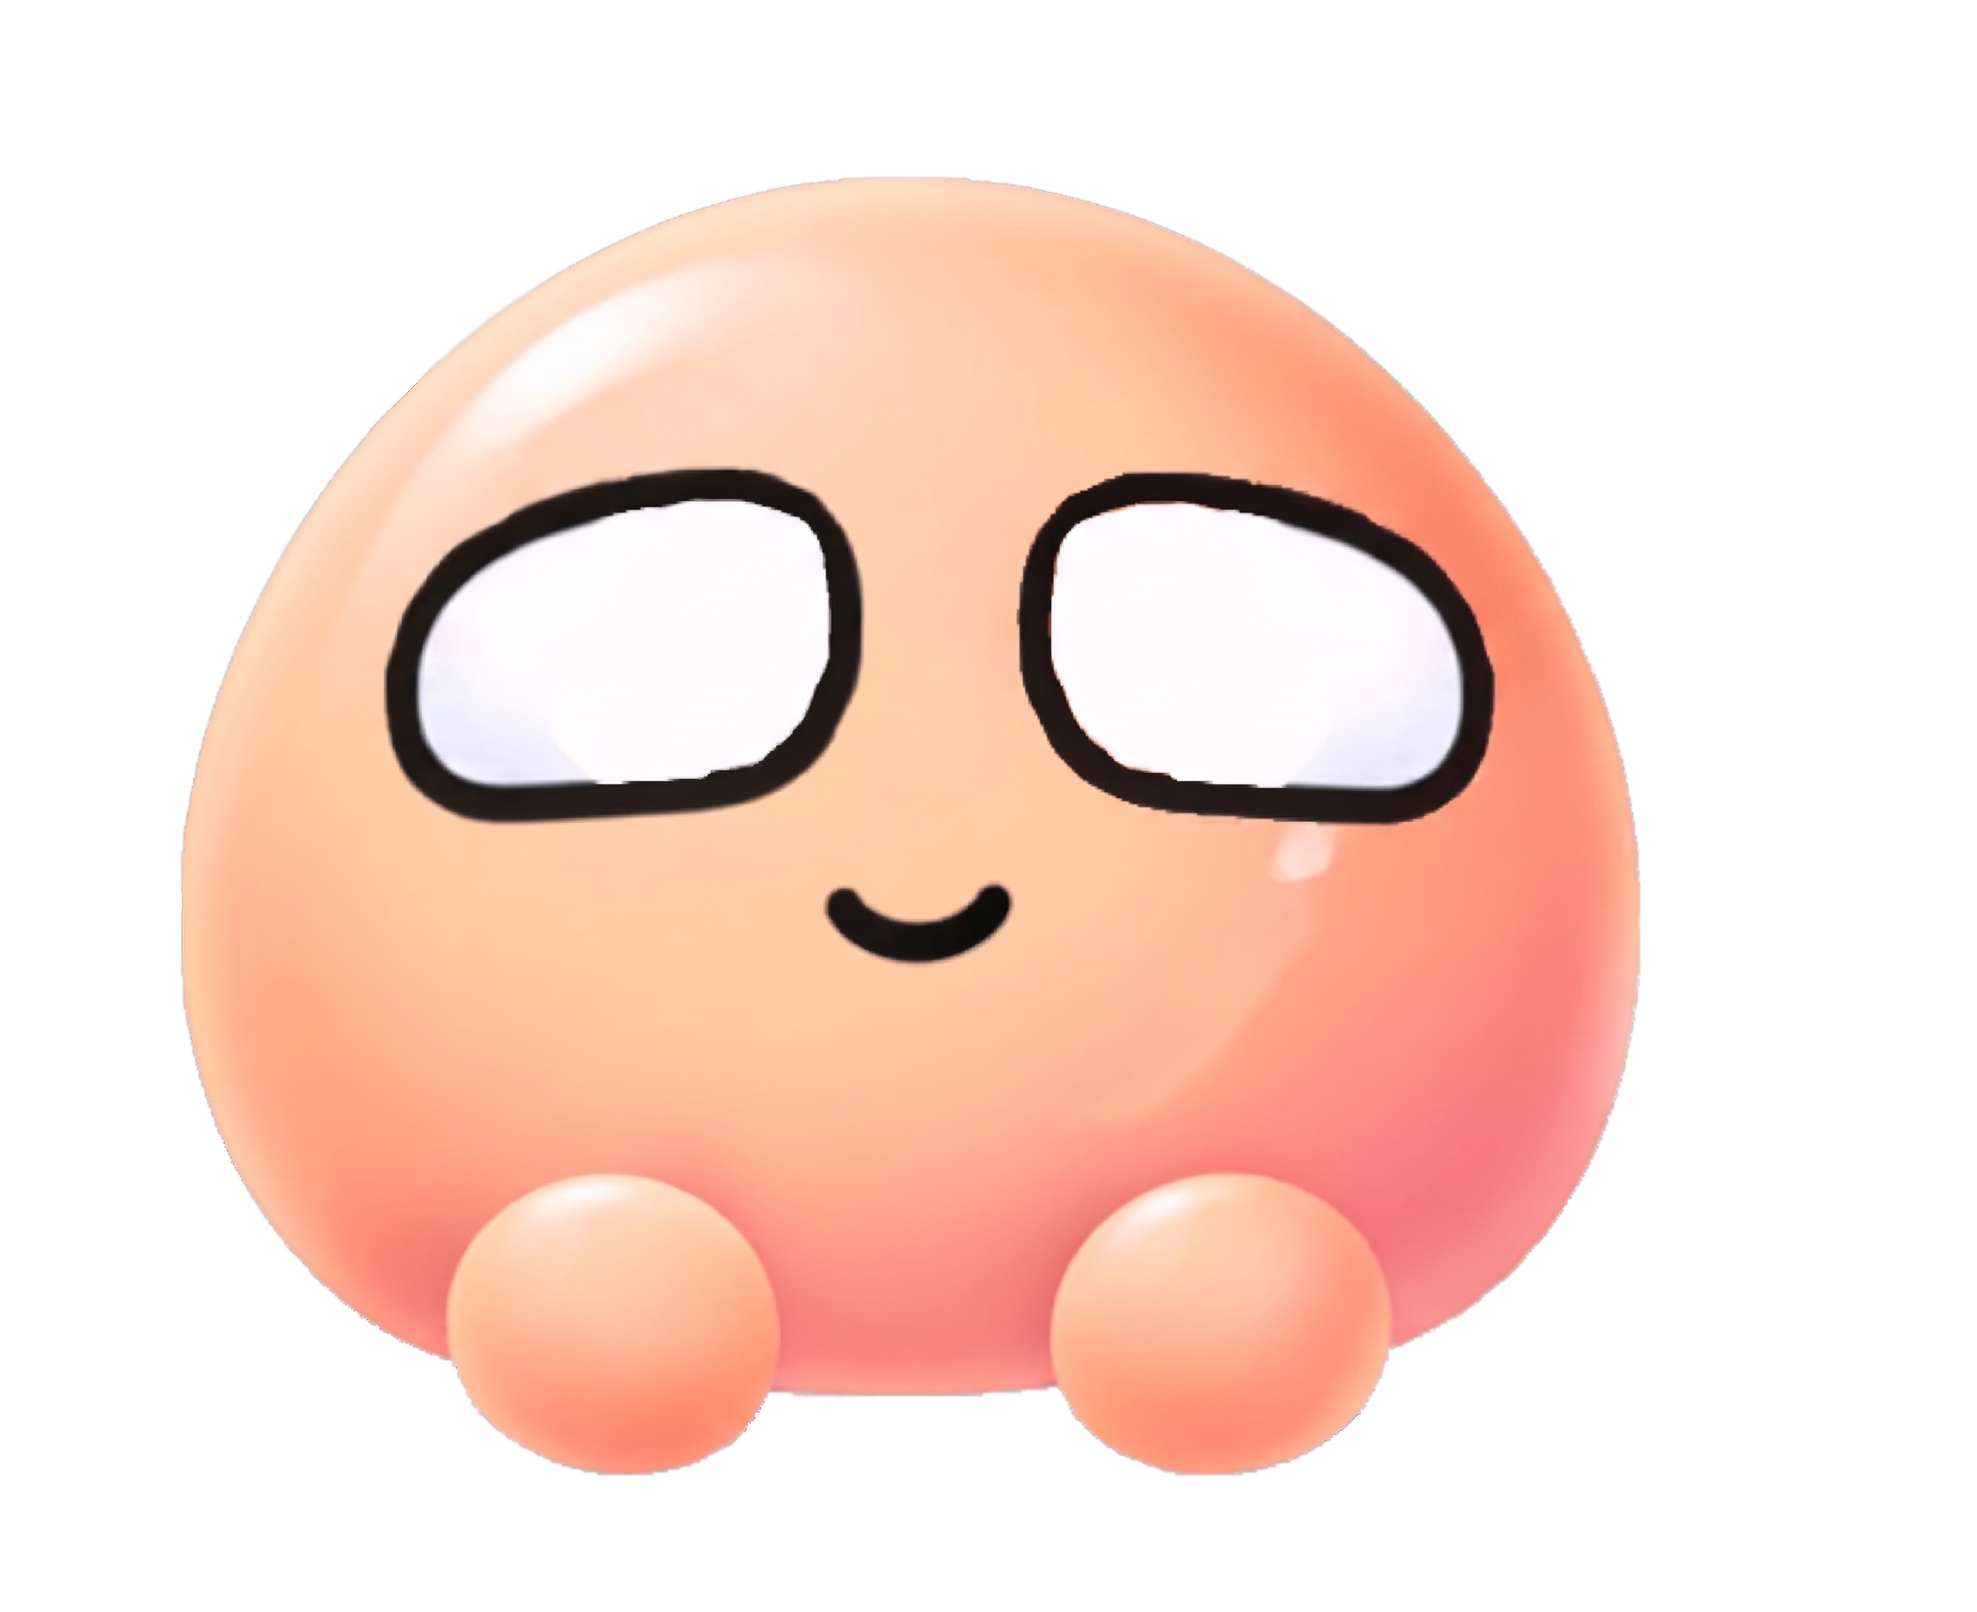
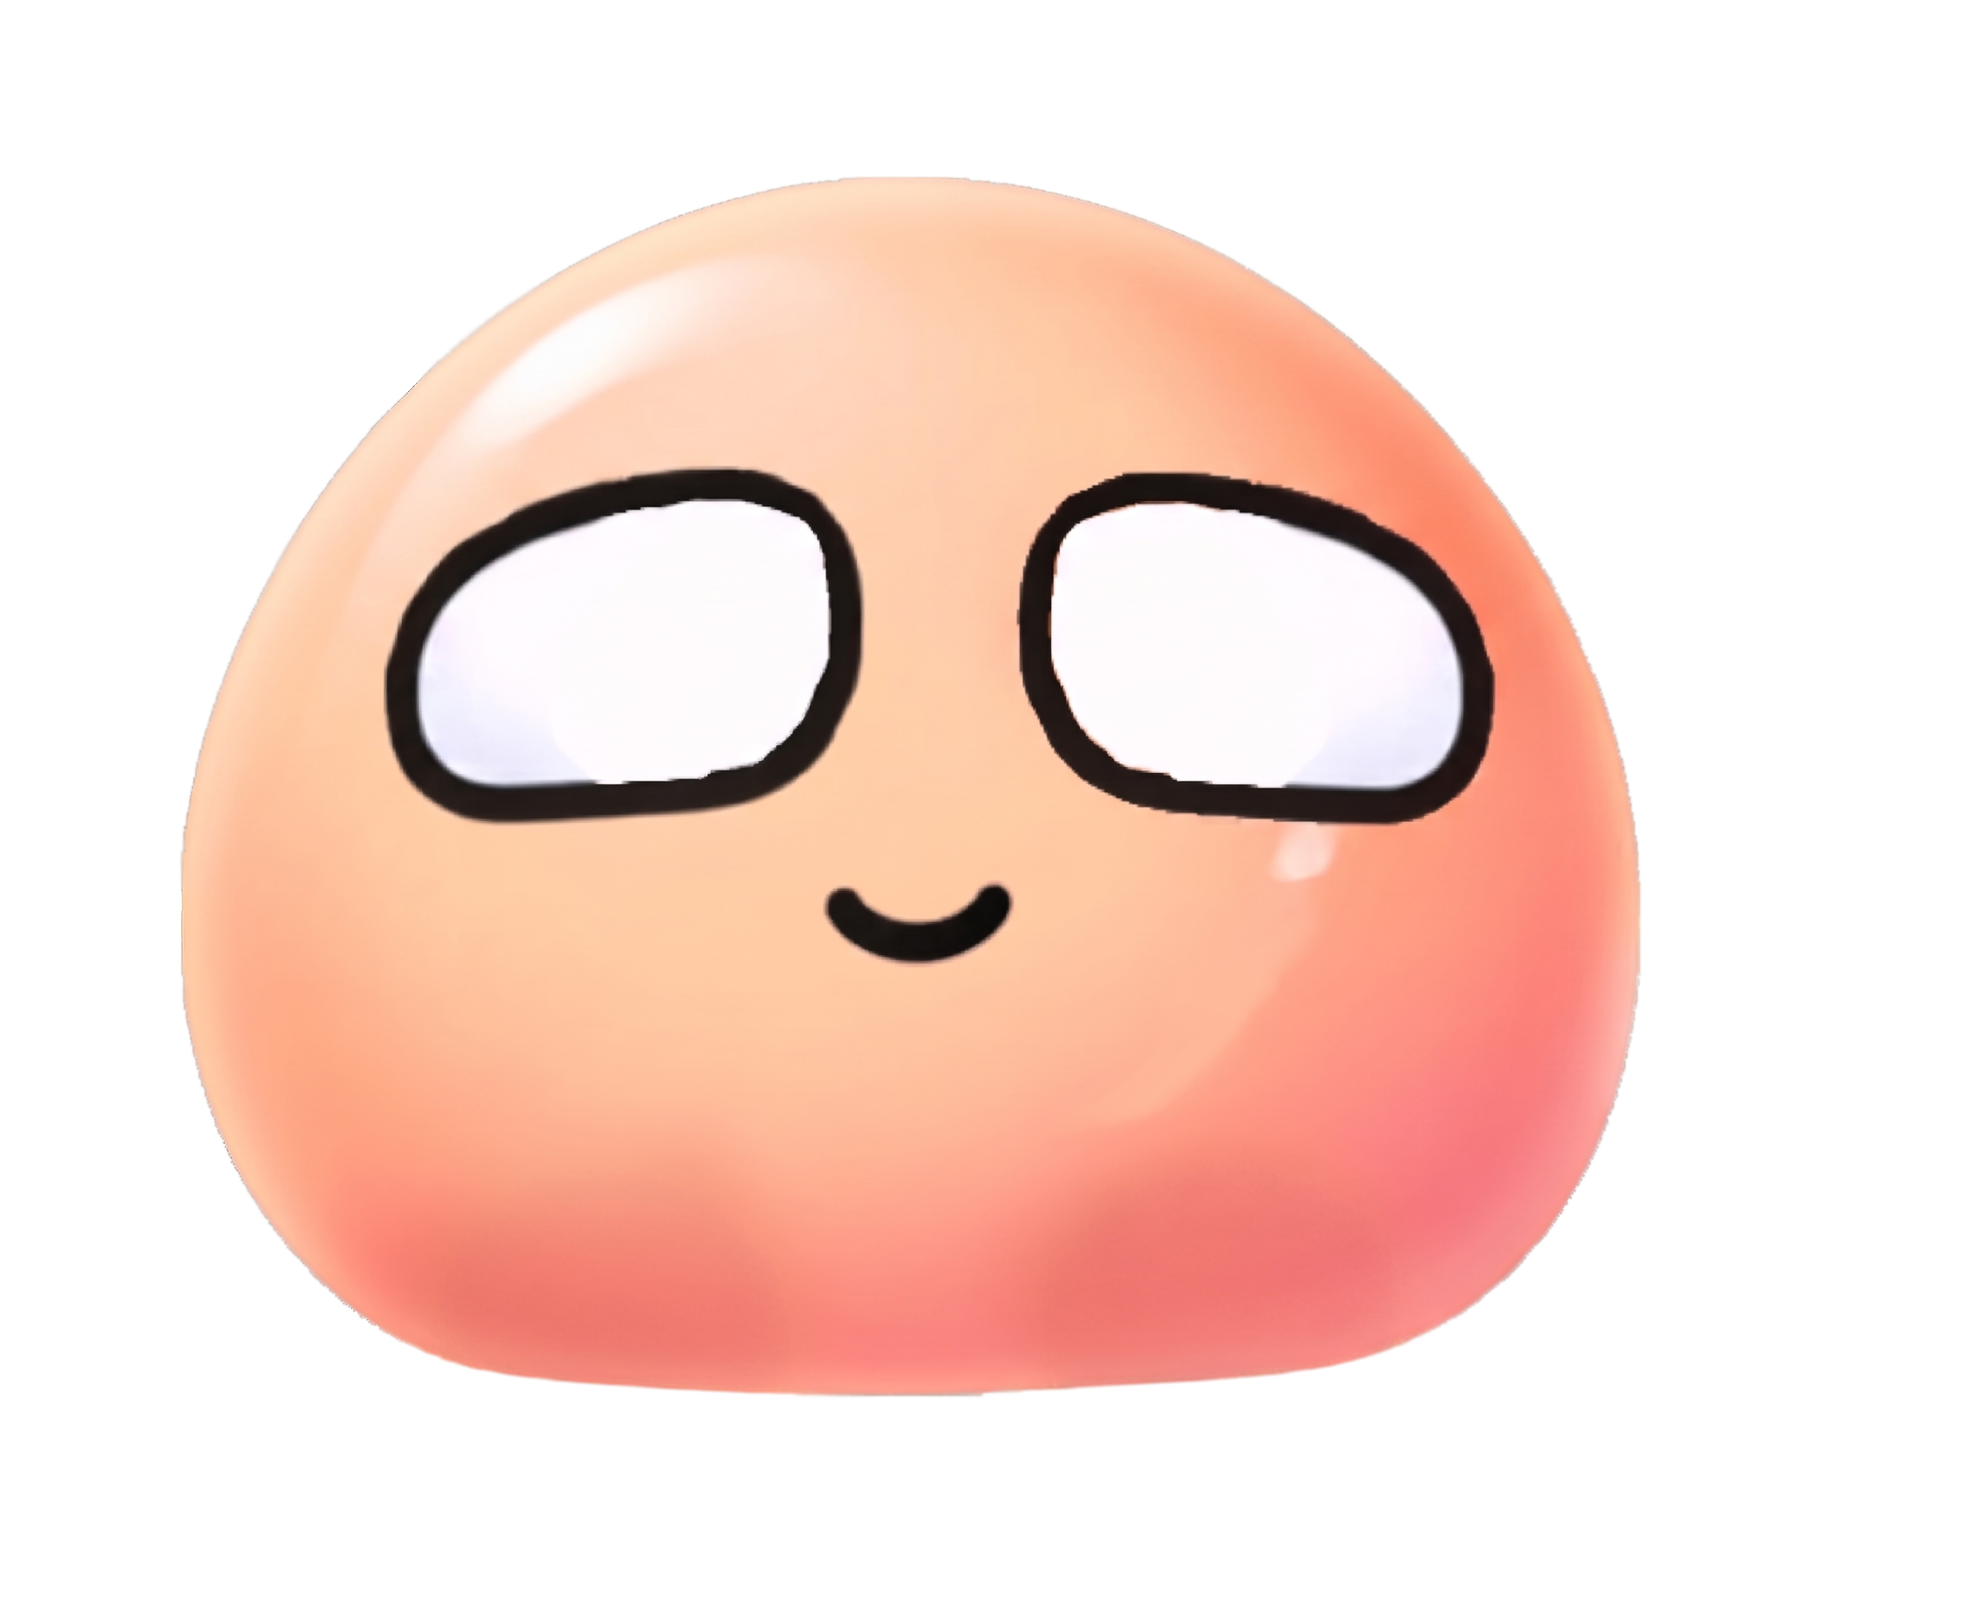
feat(ui): Add animation and hat

Changed region(s): [[0.5303, 0.7188, 0.7175, 0.9375], [0.2184, 0.7188, 0.4055, 0.9375]]

diff --git a/uchat/UChat.App/Views/MainWindow.axaml.cs b/uchat/UChat.App/Views/MainWindow.axaml.cs
@@ -3,14 +3,78 @@ using Avalonia.Controls;
 using Avalonia.Input;
 using Avalonia.Interactivity;
 using Avalonia.Media;
+using Avalonia.Threading;
+using System.Diagnostics;
 using UChat.App.ViewModels;
 
 namespace UChat.App.Views;
 
 public partial class MainWindow : Window
 {
+    // ---- Налаштування анімації мускота (можна міняти під себе) ----
+    private const double WalkSpeed = 80;        // швидкість ходьби, px/с
+    private const double StepsPerSecond = 2;    // повних циклів кроку (обидві ноги) за секунду
+    private const double HoldTime = 3;          // скільки мускот ходить з вкраденим текстом
+    private const double CarriedTextScale = 0.6;
+
+    // Видима частина мускота всередині контейнера 100x100 (за розмірами mascot.png)
+    private const double MascotBodyLeft = 9;
+    private const double MascotBodyCenter = 46;
+    private const double MascotHeadTop = 18;
+
+    private enum MascotState
+    {
+        Idle,           // стоїть вдома
+        WalkToTitle,    // іде до напису
+        Grab,           // хапає напис
+        CarryHome,      // несе напис додому
+        Hold,           // стоїть з написом на голові
+        CarryBack,      // несе напис назад
+        Release,        // повертає напис на місце
+        WalkHome        // іде додому
+    }
+
     private readonly TranslateTransform _leftPupilOffset = new();
     private readonly TranslateTransform _rightPupilOffset = new();
+    private readonly ScaleTransform _mascotScale = new();
+    private readonly TranslateTransform _mascotPosition = new();
+    private readonly RotateTransform _mascotRotation = new();
+    private readonly TranslateTransform _leftLegPosition = new();
+    private readonly TranslateTransform _rightLegPosition = new();
+    private readonly ScaleTransform _rightLegMirror = new()
+    {
+        ScaleX = -1
+    };
+
+    // Трансформації напису "Messages"
+    private readonly ScaleTransform _titleScale = new();
+    private readonly RotateTransform _titleRotation = new();
+    private readonly TranslateTransform _titleOffset = new();
+
+    private readonly Stopwatch _mascotClock = Stopwatch.StartNew();
+    private double _jumpStart = -1;
+    private readonly DispatcherTimer _mascotAnimation = new()
+    {
+        Interval = TimeSpan.FromMilliseconds(16)
+    };
+
+    // Стан "крадіжки"
+    private MascotState _state = MascotState.Idle;
+    private double _stateStart;
+    private double _stateFrom;
+    private double _stateTo;
+    private double _stateDuration = double.PositiveInfinity;
+    private double _lastTick;
+    private double _textCarry;   // 0 = напис на місці, 1 = напис на голові мускота
+
+    // Цикл ходьби
+    private double _walkWeight;  // 0..1, плавно вмикає/вимикає ходьбу
+    private double _walkPhase;
+    private double _walkDir = -1;
+    private double _walkBob;
+    private double _walkTilt;
+    private double _leftStepY;
+    private double _rightStepY;
 
     public MainWindow()
     {
@@ -18,6 +82,28 @@ public partial class MainWindow : Window
         DataContext = new MainViewModel();
         LeftPupil.RenderTransform = _leftPupilOffset;
         RightPupil.RenderTransform = _rightPupilOffset;
+
+        // Порядок важливий: спочатку масштаб і нахил, потім зсув,
+        // інакше при ходьбі мускот "розгойдувався" б навколо старої позиції.
+        MascotContainer.RenderTransform = new TransformGroup
+        {
+            Children = { _mascotScale, _mascotRotation, _mascotPosition }
+        };
+        LeftLeg.RenderTransform = _leftLegPosition;
+        RightLeg.RenderTransform = new TransformGroup
+        {
+            Children = { _rightLegMirror, _rightLegPosition }
+        };
+        TitleText.RenderTransform = new TransformGroup
+        {
+            Children = { _titleScale, _titleRotation, _titleOffset }
+        };
+
+        _mascotScale.ScaleX = 1;
+        _mascotScale.ScaleY = 1;
+        _mascotAnimation.Tick += OnMascotAnimationTick;
+        _mascotAnimation.Start();
+        Closed += (_, _) => _mascotAnimation.Stop();
     }
 
     private void OnMinimizeClick(object? sender, RoutedEventArgs e)
@@ -54,4 +140,264 @@ public partial class MainWindow : Window
         _rightPupilOffset.Y = Math.Clamp((cursor.Y - 41.2) / 55 * 2.2, -2.2, 2.2);
     }
 
+    private void OnMascotPointerPressed(object? sender, PointerPressedEventArgs e)
+    {
+        var properties = e.GetCurrentPoint(MascotContainer).Properties;
+        if (properties.IsRightButtonPressed && _state == MascotState.Idle)
+        {
+            _stateDuration = 0;
+            e.Handled = true;
+        }
+        else if (properties.IsLeftButtonPressed)
+        {
+            _jumpStart = _mascotClock.Elapsed.TotalSeconds;
+        }
+    }
+
+    private void OnMascotAnimationTick(object? sender, EventArgs e)
+    {
+        var elapsed = _mascotClock.Elapsed.TotalSeconds;
+        var dt = Math.Clamp(elapsed - _lastTick, 0, 0.05);
+        _lastTick = elapsed;
+
+        UpdateMascotState(elapsed);
+        UpdateWalkCycle(dt);
+
+        var jump = 0d;
+        var jumpProgress = 0d;
+
+        if (_jumpStart >= 0)
+        {
+            var jumpElapsed = elapsed - _jumpStart;
+            if (jumpElapsed < 0.9)
+            {
+                jump = Math.Sin(jumpElapsed / 0.9 * Math.PI);
+                jumpProgress = jumpElapsed / 0.9;
+            }
+            else if (jumpElapsed >= 1.02)
+            {
+                _jumpStart = -1;
+            }
+        }
+
+        var wobble = jump > 0
+            ? Math.Sin(jumpProgress * Math.PI * 4) * 8 * jump
+            : 0d;
+
+        _mascotPosition.Y = -20 * jump + _walkBob;
+        _mascotScale.ScaleX = 1 + 0.075 * jump;
+        _mascotScale.ScaleY = 1 - 0.065 * jump;
+        _mascotRotation.Angle = wobble + _walkTilt;
+
+        var leftLegJump = GetDelayedJump(elapsed, 0.06);
+        var rightLegJump = GetDelayedJump(elapsed, 0.3);
+        _leftLegPosition.Y = -5 * leftLegJump + _leftStepY;
+        _rightLegPosition.Y = -5 * rightLegJump + _rightStepY;
+
+        UpdateTitle();
+    }
+
+    private double GetDelayedJump(double elapsed, double delay)
+    {
+        if (_jumpStart < 0)
+        {
+            return 0;
+        }
+
+        var legElapsed = elapsed - _jumpStart - delay;
+        if (legElapsed < 0)
+        {
+            return 0;
+        }
+
+        if (legElapsed >= 0.9)
+        {
+            return 0;
+        }
+
+        return Math.Sin(legElapsed / 0.9 * Math.PI);
+    }
+
+    // ------------------------------------------------------------------
+    // Сценарій: іде до напису -> хапає -> несе додому -> тримає на голові
+    // -> несе назад -> кладе на місце -> іде додому -> чекає -> знову
+    // ------------------------------------------------------------------
+    private void UpdateMascotState(double now)
+    {
+        var t = now - _stateStart;
+
+        switch (_state)
+        {
+            case MascotState.Idle:
+                if (t >= _stateDuration)
+                {
+                    BeginMove(MascotState.WalkToTitle, GetTitleStopX(), now);
+                }
+                break;
+
+            case MascotState.WalkToTitle:
+                if (StepMove(t))
+                {
+                    BeginWait(MascotState.Grab, now, 0.6);
+                    _jumpStart = now; // підстрибує, коли хапає напис
+                }
+                break;
+
+            case MascotState.Grab:
+                _textCarry = Smooth(t / _stateDuration);
+                if (t >= _stateDuration)
+                {
+                    _textCarry = 1;
+                    BeginMove(MascotState.CarryHome, 0, now);
+                }
+                break;
+
+            case MascotState.CarryHome:
+                if (StepMove(t))
+                {
+                    BeginWait(MascotState.Hold, now, HoldTime);
+                }
+                break;
+
+            case MascotState.Hold:
+                if (t >= _stateDuration)
+                {
+                    BeginMove(MascotState.CarryBack, GetTitleStopX(), now);
+                }
+                break;
+
+            case MascotState.CarryBack:
+                if (StepMove(t))
+                {
+                    BeginWait(MascotState.Release, now, 0.6);
+                }
+                break;
+
+            case MascotState.Release:
+                _textCarry = 1 - Smooth(t / _stateDuration);
+                if (t >= _stateDuration)
+                {
+                    _textCarry = 0;
+                    BeginMove(MascotState.WalkHome, 0, now);
+                }
+                break;
+
+            case MascotState.WalkHome:
+                if (StepMove(t))
+                {
+                    BeginWait(MascotState.Idle, now, double.PositiveInfinity);
+                }
+                break;
+        }
+    }
+
+    private void BeginMove(MascotState next, double toX, double now)
+    {
+        _state = next;
+        _stateStart = now;
+        _stateFrom = _mascotPosition.X;
+        _stateTo = toX;
+        _stateDuration = Math.Max(0.01, Math.Abs(toX - _stateFrom) / WalkSpeed);
+
+        if (Math.Abs(toX - _stateFrom) > 0.01)
+        {
+            _walkDir = Math.Sign(toX - _stateFrom);
+        }
+    }
+
+    private void BeginWait(MascotState next, double now, double duration)
+    {
+        _state = next;
+        _stateStart = now;
+        _stateDuration = duration;
+    }
+
+    // Повертає true, коли мускот дійшов до цілі.
+    private bool StepMove(double t)
+    {
+        var p = Math.Clamp(t / _stateDuration, 0, 1);
+        _mascotPosition.X = _stateFrom + (_stateTo - _stateFrom) * p;
+        return p >= 1;
+    }
+
+    private bool IsWalking =>
+        _state is MascotState.WalkToTitle
+            or MascotState.CarryHome
+            or MascotState.CarryBack
+            or MascotState.WalkHome;
+
+    // Зсув мускота (відносно дому), при якому він стоїть біля правого краю напису.
+    private double GetTitleStopX()
+    {
+        var mascot = MascotContainer.Bounds;
+        var title = TitleText.Bounds;
+        if (title.Width <= 0)
+        {
+            return 0;
+        }
+
+        return title.Right + 6 - (mascot.X + MascotBodyLeft);
+    }
+
+    // ------------------------------------------------------------------
+    // Анімація ходьби: ноги по черзі підіймаються, тіло підстрибує і
+    // перевалюється з боку в бік. _walkWeight плавно вмикає й вимикає це.
+    // ------------------------------------------------------------------
+    private void UpdateWalkCycle(double dt)
+    {
+        var target = IsWalking ? 1d : 0d;
+        _walkWeight += (target - _walkWeight) * Math.Min(1, dt * 10);
+        _walkPhase += dt * StepsPerSecond * Math.PI * 2 * _walkWeight;
+
+        var sin = Math.Sin(_walkPhase);
+        var cos = Math.Cos(_walkPhase);
+        var w = _walkWeight;
+
+        // Кожна нога підіймається лише у свою половину циклу
+        _leftStepY = -5 * Math.Max(0, sin) * w;
+        _rightStepY = -5 * Math.Max(0, -sin) * w;
+
+        // Нога, що в повітрі, рухається вперед за напрямком ходьби
+        _leftLegPosition.X = -cos * 3 * _walkDir * w;
+        _rightLegPosition.X = cos * 3 * _walkDir * w;
+
+        _walkBob = -2 * Math.Abs(sin) * w;
+        _walkTilt = (3 * sin + 2 * _walkDir) * w;
+    }
+
+    // ------------------------------------------------------------------
+    // Напис "Messages": лежить на місці (carry = 0) або сидить у мускота
+    // на голові зменшений (carry = 1). Між ними летить дугою.
+    // ------------------------------------------------------------------
+    private void UpdateTitle()
+    {
+        var mascot = MascotContainer.Bounds;
+        var title = TitleText.Bounds;
+        if (title.Width <= 0)
+        {
+            return;
+        }
+
+        var p = _textCarry;
+        var centerX = title.X + title.Width / 2;
+        var centerY = title.Y + title.Height / 2;
+
+        var targetX = mascot.X + _mascotPosition.X + MascotBodyCenter;
+        var targetY = mascot.Y + MascotHeadTop - 5 + _mascotPosition.Y;
+
+        var arc = -18 * Math.Sin(Math.PI * p); // дуга вгору під час перельоту
+
+        var scale = 1 - (1 - CarriedTextScale) * p;
+        _titleScale.ScaleX = scale;
+        _titleScale.ScaleY = scale;
+        _titleOffset.X = (targetX - centerX) * p;
+        _titleOffset.Y = (targetY - centerY) * p + arc;
+        _titleRotation.Angle = _mascotRotation.Angle * p;
+    }
+
+    private static double Smooth(double x)
+    {
+        x = Math.Clamp(x, 0, 1);
+        return x * x * (3 - 2 * x);
+    }
 }
